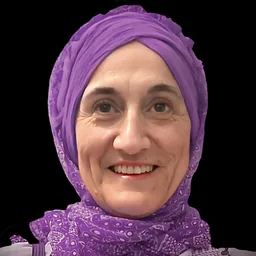
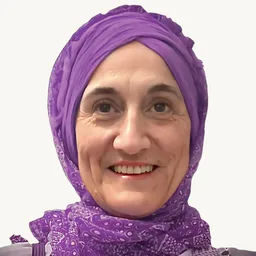
Foto Teresa: fondo crema claro en vez de negro

diff --git a/index.html b/index.html
@@ -202,7 +202,7 @@
         <article class="resena" itemscope itemtype="https://schema.org/Review">
           <div itemprop="itemReviewed" itemscope itemtype="https://schema.org/Service"><meta itemprop="name" content="Diseño web Tu Web Moderna"></div>
           <div class="resena__quien">
-            <img class="resena__foto" src="assets/img/resena-teresa-gomez.webp" alt="Teresa Gómez Portillo" width="58" height="58">
+            <img class="resena__foto" src="assets/img/resena-teresa-gomez.webp?v=2" alt="Teresa Gómez Portillo" width="58" height="58">
             <span><strong class="resena__nombre" itemprop="author">Teresa Gómez Portillo</strong><br>
             <span class="resena__negocio">Comunicación No Violenta · Málaga</span><br>
             <a class="resena__web" href="https://comunicacionyresoluciondeconflictos.com" target="_blank" rel="noopener">comunicacionyresoluciondeconflictos.com ↗</a></span>
